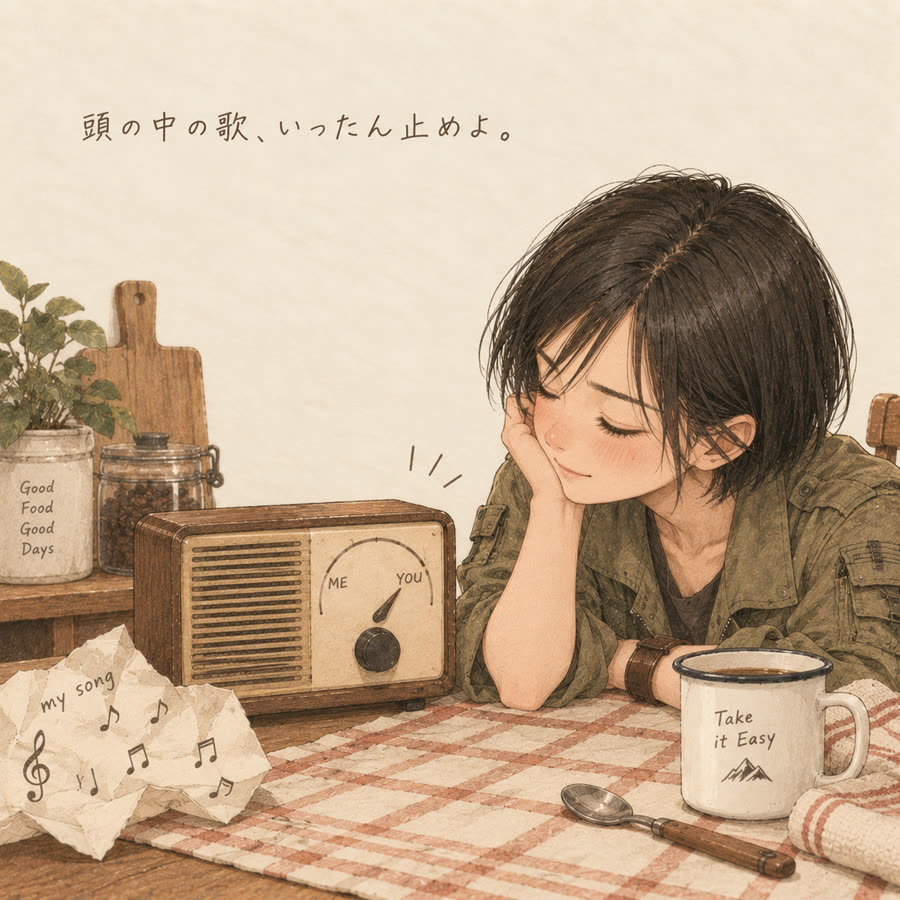
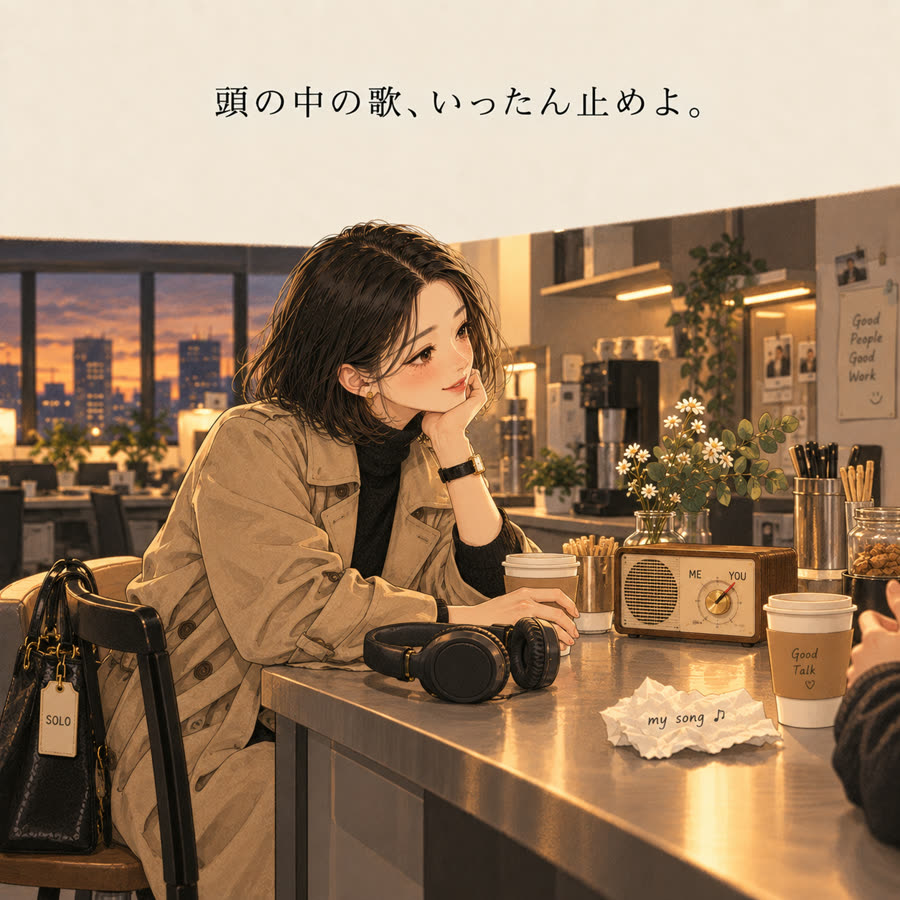
Redraw the Libra illustrations with the office character

diff --git a/libra/pages/04-needs.html b/libra/pages/04-needs.html
@@ -29,7 +29,7 @@
 <main class="chapter-main">
 <article class="wrap prose">
 <aside class="chapter-quick has-illust" id="quick">
-  <figure class="quick-illust"><img src="../img/quick-04.jpg" alt="ラジオのダイヤルを「YOU」に合わせ、丸めた「my song」を脇に置く女の子。「頭の中の歌、いったん止めよ。」" loading="lazy"></figure>
+  <figure class="quick-illust"><img src="../img/quick-04.jpg" alt="休憩スペースで、ヘッドホンを外し、ラジオのダイヤルを「YOU」に合わせて話を聞く女の子。「頭の中の歌、いったん止めよ。」" loading="lazy"></figure>
   <div class="chapter-quick__body">
   <p class="kicker">Start here</p>
   <p class="chapter-quick__lead">認められたい気持ちは、自分を見せびらかすのではなく、相手を認めることで満たされます。</p>

diff --git a/libra/pages/02-past-lives.html b/libra/pages/02-past-lives.html
@@ -29,7 +29,7 @@
 <main class="chapter-main">
 <article class="wrap prose">
 <aside class="chapter-quick has-illust" id="quick">
-  <figure class="quick-illust"><img src="../img/quick-02.jpg" alt="丘の階段で、ゴールの旗の手前で振り返って相手に手を差し出す女の子。「先にゴールするより、いっしょに。」" loading="lazy"></figure>
+  <figure class="quick-illust"><img src="../img/quick-02.jpg" alt="帰り支度のまま引き返して、後輩の画面をのぞきこむ女の子。奥にエレベーター。「先に帰るより、いっしょに。」" loading="lazy"></figure>
   <div class="chapter-quick__body">
   <p class="kicker">Start here</p>
   <p class="chapter-quick__lead">戦士だった前世の強さを、人がその人自身の戦いに勝てるよう助けることに使い直します。</p>

diff --git a/libra/pages/03-personality.html b/libra/pages/03-personality.html
@@ -29,7 +29,7 @@
 <main class="chapter-main">
 <article class="wrap prose">
 <aside class="chapter-quick has-illust" id="quick">
-  <figure class="quick-illust"><img src="../img/quick-03.jpg" alt="出かける前に、ソファの相手のそばにかがんでひとつ聞く女の子。「出る前に、ひとつ聞いていい？」" loading="lazy"></figure>
+  <figure class="quick-illust"><img src="../img/quick-03.jpg" alt="出かける格好のままソファに座り直して、友だちの話を聞く女の子。玄関にブーツ、床に丸めた「Later.」。「出る前に、ひとつ聞いていい？」" loading="lazy"></figure>
   <div class="chapter-quick__body">
   <p class="kicker">Start here</p>
   <p class="chapter-quick__lead">威圧で勝っても、相手は心を閉じます。動く前に、相手を入れます。</p>

diff --git a/libra/pages/01-overview.html b/libra/pages/01-overview.html
@@ -29,7 +29,7 @@
 <main class="chapter-main">
 <article class="wrap prose">
 <aside class="chapter-quick has-illust" id="quick">
-  <figure class="quick-illust"><img src="../img/quick-01.jpg" alt="机を真上から。丸めた「ME 1 – YOU 0」と、ノートに書いた「Both ✓」。「勝つより、ふたりで進む。」" loading="lazy"></figure>
+  <figure class="quick-illust"><img src="../img/quick-01.jpg" alt="会議室のテーブルを真上から。丸めた「ME 1 – YOU 0」と、ノートの「You need / I need」に「Both ✓」。「勝つより、ふたりで進む。」" loading="lazy"></figure>
   <div class="chapter-quick__body">
   <p class="kicker">Start here</p>
   <p class="chapter-quick__lead">自分の強さを、ひとりで勝つためではなく、人と協力する中で生かします。</p>

diff --git a/libra/pages/07-practice.html b/libra/pages/07-practice.html
@@ -29,7 +29,7 @@
 <main class="chapter-main">
 <article class="wrap prose">
 <aside class="chapter-quick has-illust" id="quick">
-  <figure class="quick-illust"><img src="../img/quick-07.jpg" alt="カフェで、相手の重いバッグの持ち手を取る女の子。テーブルには花がグラスに。「その荷物、半分持つよ。」" loading="lazy"></figure>
+  <figure class="quick-illust"><img src="../img/quick-07.jpg" alt="カフェを出た歩道で、重いトートの持ち手を1本ずつ持って並んで歩く二人。「その荷物、半分持つよ。」" loading="lazy"></figure>
   <div class="chapter-quick__body">
   <p class="kicker">Start here</p>
   <p class="chapter-quick__lead">戦う力を、平和を作る力に変えます。自信を人に渡すと、あなたも満たされます。</p>

diff --git a/libra/index.html b/libra/index.html
@@ -40,7 +40,7 @@
       <p>その自信を人に渡して、相手を強くします。</p>
       <p>その人と一緒に成功するとき、あなた自身も満たされます。</p>
     </div>
-      <figure class="quick-illust"><img src="img/quick-00.jpg" alt="「SOLO」のバッグとメダルの横で、相手に渡す花を包む女の子。「さて。これ、ちゃんと渡せるかな。」" loading="lazy"></figure>
+      <figure class="quick-illust"><img src="img/quick-00.jpg" alt="人の帰ったオフィスの自分の机で、花を1本ぎこちなく包む女の子。バッグのタグ「SOLO」。「さて。これ、ちゃんと渡せるかな。」" loading="lazy"></figure>
     </div>
     <p class="quick-label">章ごとに、今日からできること</p>
     <ol class="quick-list">

diff --git a/libra/pages/05-relationships.html b/libra/pages/05-relationships.html
@@ -29,7 +29,7 @@
 <main class="chapter-main">
 <article class="wrap prose">
 <aside class="chapter-quick has-illust" id="quick">
-  <figure class="quick-illust"><img src="../img/quick-05.jpg" alt="閉じた「Give / Take」の帳簿の横で、眠る相手に毛布をかける女の子。「数えるの、やめた。」" loading="lazy"></figure>
+  <figure class="quick-illust"><img src="../img/quick-05.jpg" alt="部屋着でソファのそばに座り、眠る友だちに毛布をかける女の子。「Give / Take」の帳簿は閉じたまま。「数えるの、やめた。」" loading="lazy"></figure>
   <div class="chapter-quick__body">
   <p class="kicker">Start here</p>
   <p class="chapter-quick__lead">あなたは関係に向いていないのではなく、経験が足りないだけです。</p>

diff --git a/libra/pages/06-goals.html b/libra/pages/06-goals.html
@@ -29,7 +29,7 @@
 <main class="chapter-main">
 <article class="wrap prose">
 <aside class="chapter-quick has-illust" id="quick">
-  <figure class="quick-illust"><img src="../img/quick-06.jpg" alt="厨房で、ナイフをラックに戻して「Need a hand?」のメモを見せる女の子。「手を出す前に、聞いてみよ。」" loading="lazy"></figure>
+  <figure class="quick-illust"><img src="../img/quick-06.jpg" alt="夜のオフィスで、ペンを置いて「Need a hand?」のメモを差し出す女の子。「手を出す前に、聞いてみよ。」" loading="lazy"></figure>
   <div class="chapter-quick__body">
   <p class="kicker">Start here</p>
   <p class="chapter-quick__lead">目標は、ひとりで速くやるのではなく、チームの中で実現します。</p>
